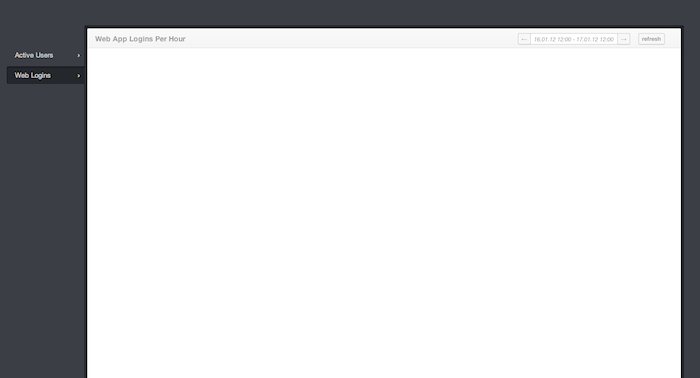
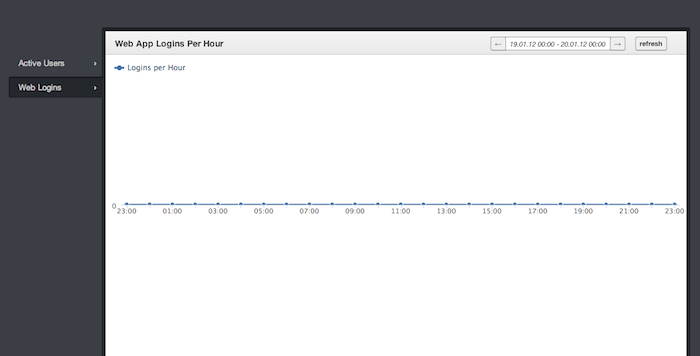
Finished Fnord and C# post and updated image
Finally good enough to post on my site and I have updated the image
of the dashboard to actually show something.

Changed region(s): [[0.0, 0.0618, 0.99, 1.0]]

diff --git a/blogs/in-the-works/_FnordMetrics-and-C#.md b/blogs/in-the-works/_FnordMetrics-and-C#.md
@@ -33,6 +33,7 @@ To follow along, you're going to need the following:
 * A Linux server with:
   * A Ruby installation (>= v1.9.2)
   * A [Redis] [2] installation (I'm using 2.4.6)
+  * FnordMetric (v 0.6.3 is what I'm working with)
 
 If you don't have a Linux server, then a VM or a free micro-instance from
 Amazon will do just fine. For me, I'm justing using the free, default 64-bit
@@ -44,14 +45,10 @@ you can find a great Windows Ruby installer over [here] [4].
 
 Once you get the Linux server setup then you'll need to install Ruby. I'd
 recommend (for ease) that you use [RVM] [3]. To get started, mosey on
-over to their (entirely professional) site and follow the instructions. Once
-you get RVM installed you can run:
-
-    rvm install ruby-1.9.2-p290
+over to their (entirely professional) site and follow the instructions. 
 
 Once that is done, we need to install FnordMetric. This is my favorite part
-just because it is so easy. In the same terminal that you might have ran the
-previous command, run:
+just because it is so easy. Open up a terminal and run:
 
     gem install fnordmetric
 
@@ -59,8 +56,10 @@ That's it! Painless I know. :-)
 
 ## Your first Fnord
 
-Now that we have everything setup, it's time to get down to business. Open up
-your favorite editor and copy the following into `fnord.rb`
+Now that we have everything setup, it's time to get down to business. 
+
+### Starting First with Ruby
+Open up your favorite editor and copy the following into `fnord.rb`
 
     ## fnord.rb
     require 'fnordmetric'
@@ -72,9 +71,7 @@ your favorite editor and copy the following into `fnord.rb`
             :tick  => 1.hour.to_i,
             :title => 'Logins per Hour'
 
-        event :login do
-            incr :logins_per_hour
-        end
+        event(:login) { incr(:logins_per_hour) }
     
         widget 'Web Logins', {
           :title            => 'Web App Logins Per Hour',
@@ -87,9 +84,8 @@ your favorite editor and copy the following into `fnord.rb`
     
     FnordMetric.standalone
 
-A quick note, I am currently assuming that you have created this file on the
-Linux server to which you installed Redis. Run the following command to start
-the project:
+That's all it takes to get a sample up and running. If you want proof, just run
+the following in a terminal:
 
     ruby fnord.rb run
 
@@ -104,24 +100,72 @@ at the first actual line of code:
 
 <pre><code class="ruby">FnordMetric.namespace :my_first_fnord do</code></pre>
 
+This simply let's us define a namespace within the Fnord application. What 
+exactly is a namespace? Well, in the context of my work, it could be our web
+application or our real time services. Think of it as the whole dashboard. Note
+that it is possible to create multiple namespaces and host them all in one
+Fnord instance. 
 
+The next piece of important code is the gauge:
 
+<pre><code class="ruby">gauge :logins_per_hour,
+    :tick  => 1.hour.to_i,
+    :title => 'Logins per Hour'
+</code></pre>
 
+This specifies the *bucket*, per say. This is a *bucket* (or gauge) where you
+will store events. In this case I have a *bucket* (:logins_per_hour) that is
+aggregated on a per-hourly basis and it titled 'Logins per Hour'. This means
+that when I generate a graph, this data has a static granularity of a day. The
+title is only used when looking at the keys in your graph.
 
+Moving on, the event:
 
+<pre><code class="ruby">event(:login) { incr(:logins_per_hour) }
+</code></pre>
 
-Crack
-open that C# project and add a library reference (via NuGet) to [Sider] [7].
+This registers the event that Fnord will listen to and what to do when that
+event is received. In this case, we'd like to increment the gauge :logins_per_hour
+when we receive a :login event. 
+
+An event looks like this (in JSON):
+<pre><code class="javascript">{ "_type": "login" }</code></pre>
+This is sent to Fnord in a variety of ways (we'll look at one way in a minute).
+
+Lastly, there is the widget. The widget determines what we're actually going
+to show in the dashboard.
+<pre><code class="ruby">
+widget 'Web Logins', {
+       :title            => 'Web App Logins Per Hour',
+       :type             => :timeline,
+       :gauges           => :logins_per_hour,
+       :include_current  => true,
+       :autoupdate       => 2 #update graph every 2 seconds
+  }</code></pre>
+In this case, we'd like to use the *bucket* (gauge) we've created as input to
+a graph. We're saying that we'd like to create a timeline which includes the
+current time and updates every two seconds (poll server for more data).We've
+also given the widget a nice title to display.
+
+### Now Finishing with C#
+
+Now that we understand how things work on the Fnord side of things, it's time
+to crack open that C# project and get to work. The first thing that we need to
+do is add a library reference (via NuGet) to [Sider] [7].
 
 ![Install Sider in Visual Studio via NuGet][9]
 
 [Sider] [7] is a Redis library for C# that stays as close to the implementation
 as possible. It doesn't deal with mapping complex data types to the underlying
-storage engine. It's perfect for our uses because it gets out of our way. Now,
-all you need to do is find that pesky login method (assuming you're following along
-with my example... feel free to stray) and add some code like:
+storage engine. It's simple enough to be perfect for this demo. Remember earlier
+when I said that events could come to Fnord in a variety of ways. Well, the way
+we're going to send messages is to push messages directly to the Redis queue.
+Fnord will notice the new message and process the event.
 
-    // Some randome C# code
+So, since the example I have given deals with tracking logins, you would
+normally add the code below somewhere in your applications login method. Of
+course you can follow along however you like (login or no login).
+
     using(var client = new RedisClient("linux.mysite.com:6379"))
     {
         String guid = Guid.NewGuid().ToString("N");
@@ -132,14 +176,16 @@ with my example... feel free to stray) and add some code like:
     }
 
 At this point we are simply pushing a message directly to Redis. FnordMetric will
-register the event and update the results in the dashboard. Note that I have
+notice the event and update the results in the dashboard. Note that I have
 set a timeout for this event of 60 seconds. This means that if FnordMetric is not
-running, it could miss the event. However, this keep us from quickly building
-up a lot of stale data in our Redis installation. Congratulations, you have
-a working installation of FnordMetric! If you're curious as to some of
-the details of your setup, keep reading. 
+running, it could miss the event (Redis will expire it). However, this keeps us 
+from quickly building up a lot of stale data in our Redis installation.
 
-##Demystified
+You might also notice that there are some conventions with how we are naming the
+Redis keys. This is discussed in the next section if you are interested.
+
+
+## Extra Goodness
 
  Okay, up until now, things have fit together pretty well without any
  intervention. But, what if my Redis install runs on a non-standard port? Or,
@@ -159,7 +205,7 @@ the details of your setup, keep reading.
         # point to external redis on non-standard port
         redis_url:          'redis://10.1.0.38:6380',
 
-        # prefis on events pushed to redis
+        # prefix on events pushed to redis
         redis_prefix:       'mavia-metrics',
 
         # port on which to accept event-pushes (we're not using this)
@@ -192,13 +238,12 @@ self-explanatory with the possible exception of the `redis_prefix`. This
 is used to determine the keys you use when inserting data into redis. For
 example, with the newly defined prefix, our redis ID might look like
 
-    String.Format("mavia-metrics-{0}", guid);
+<pre><code class="cs">String.Format("mavia-metrics-{0}", guid);</code></pre>
 
 The one other item that might be a little confusing is the `inbound_stream`
 configuration option. This specifies on what port the API will run. The API
 is yet another way to push data to FnordMetric but, I'm not going to cover
-that here. I'd rather avoid extra layers of abstraction and indirection if
-possible. 
+that here. You can learn more about that on their [GitHub][1] page. 
 
 Well, that's about it. There's not a lot of demystifying to do here. It's a
 pretty straight forward project with a gorgeous API. Obviously there is a lot
@@ -207,32 +252,10 @@ working setup to play with, I recommend heading over to the [GitHub] [1] page
 to learn more interesting tricks! If making that extra mouse click is just
 too much for you however, I've included a couple of extras below.
 
-##Extra Goodies
-
-Title your page something useful by adding this directive into your namespace
-declaration:
-
-    ## fnord.rb
-    FnordMetric.namespace :my_first_fnord do
-        set_title 'My First Fnord'
-    end
-
-
-If you have no idea what the 'ActiveUsers' tab is and want to hide it, add
-this to your namespace declaration:
-
-    ##fnord.rb
-    FnordMetric.namespace :my_first_fnord do
-      hide_active_users
-    end
-
-
-
-
 
   [1]: http://github.com/paulasmuth/fnordmetric
   [2]: http://redis.io
-  [3]: http://http://beginrescueend.com
+  [3]: http://beginrescueend.com
   [4]: http://rubyinstaller.org/
   [5]: http://www.screenr.com/KiJs
   [6]: http://localhost:4242/
